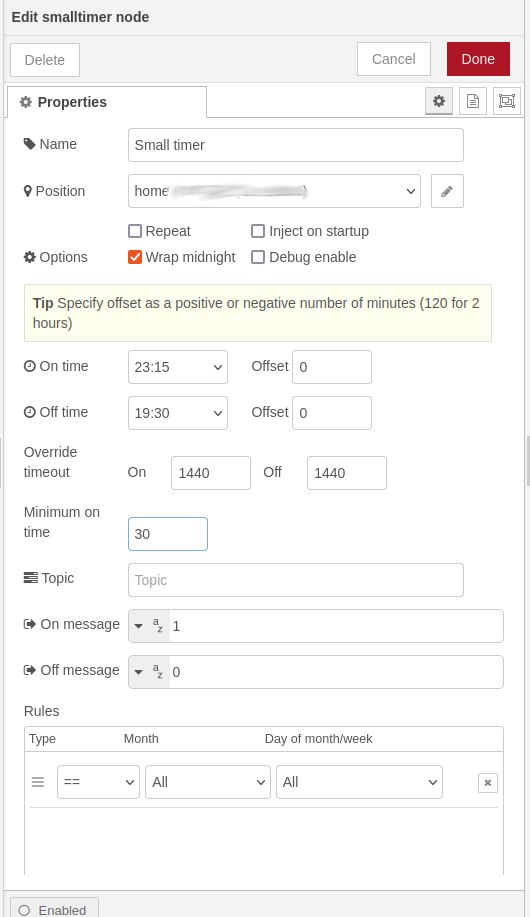
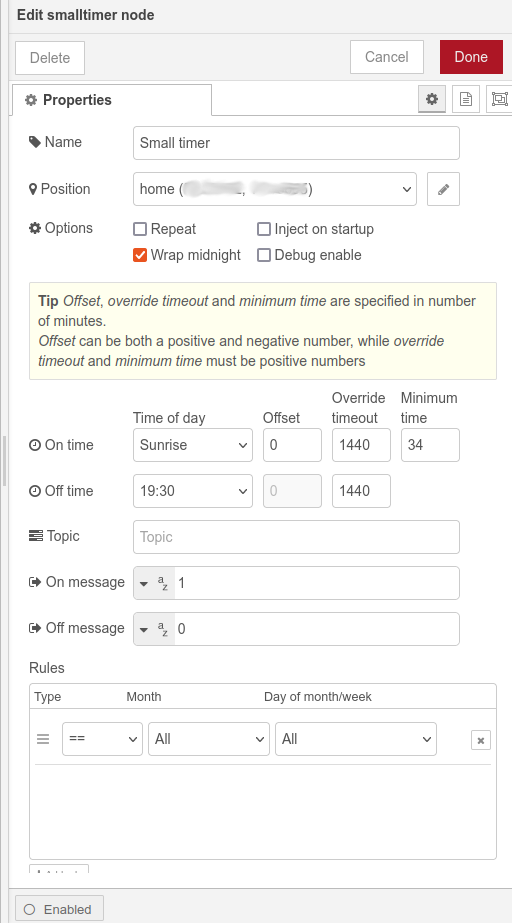
Styling the editor UI

diff --git a/src/nodes/small-timer.html b/src/nodes/small-timer.html
@@ -94,7 +94,7 @@
         <input type="text" id="node-input-position" placeholder="Position">
     </div>
     <div class="form-row">
-        <label><i class="fa fa-cog"></i> Options</label>
+        <label style="vertical-align: top;"><i class="fa fa-cog"></i> Options</label>
         <div style="display:inline-block;" class="small-timer-options">
             <div>
                 <label><input type="checkbox" id="node-input-repeat"> Repeat</label>
@@ -108,36 +108,43 @@
     </div>
 
     <div class="form-tips">
-        <b>Tip</b> Specify offset as a positive or negative number of minutes (120 for 2 hours)
+        <b>Tip</b> <em>Offset</em>, <em>override timeout</em> and <em>minimum time</em> are specified in number of minutes.<br />
+        <em>Offset</em> can be both a positive and negative number, while <em>override timeout</em> and <em>minimum time</em> must be positive numbers
     </div>
-    <div class="form-row">
-        <label for="node-input-startTime"><i class="fa fa-clock-o"></i> On time</label>
-        <input type="text" id="node-input-startTime" class="hidden">
-        <select style="width:100px" id="node-input-startTime-select">
-        </select>
-        <span for="node-input-startOffset" style="margin-left:20px">Offset</span>
-        <input  style="width:80px" type="text" id="node-input-startOffset" placeholder="0">
-    </div>
-    <div class="form-row">
-        <label  for="node-input-endTime"><i class="fa fa-clock-o"></i> Off time</label>
-        <input type="text" id="node-input-endTime">
-        <select style="width:100px" id="node-input-endTime-select">
-        </select>
-        <span for="node-input-end Offset" style="margin-left:20px">Offset</span>
-        <input  style="width:80px" type="text" id="node-input-endOffset" placeholder="0">
-    </div>
-    <div class="form-row">
-        <label>Override timeout</label>
-        <div style="display:inline-block" class="small-timer-overrides">
-            <label for="node-input-onTimeout"> On</label>
-            <input type="text" id="node-input-onTimeout" placeholder="1440">
-            <label for="node-input-offTimeout"> Off</label>
-            <input type="text" id="node-input-offTimeout" placeholder="1440">
+    <div class="form-row" style="margin-bottom: 0;">
+        <label></label>
+        <div style="display:inline-block;">
+            <div class="small-timer-timers small-timer-timers-header">
+                <div class="small-timer-time-column">Time of day</div>
+                <div>Offset</div>
+                <div>Override timeout</div>
+                <div>Minimum time</div>
+            </div>
         </div>
     </div>
     <div class="form-row">
-        <label for="node-input-minimumOnTime">Minimum on time</label>
-        <input style="width:80px" type="text" id="node-input-minimumOnTime" placeholder="0">
+        <label for="node-input-startTime"><i class="fa fa-clock-o"></i> On time</label>
+        <div style="display:inline-block;">
+            <div class="small-timer-timers">
+                <input type="hidden" id="node-input-startTime" class="hidden">
+                <select id="node-input-startTime-select"></select>
+                <input type="text" id="node-input-startOffset" placeholder="0">
+                <input type="text" id="node-input-onTimeout" placeholder="1440">
+                <input type="text" id="node-input-minimumOnTime" placeholder="0">
+            </div>
+        </div>
+    </div>
+    <div class="form-row">
+        <label  for="node-input-endTime"><i class="fa fa-clock-o"></i> Off time</label>
+        <div style="display:inline-block;">
+            <div class="small-timer-timers">
+                <input type="hidden" id="node-input-endTime" class="hidden">
+                <select id="node-input-endTime-select"></select>
+                <input type="text" id="node-input-endOffset" placeholder="0">
+                <input type="text" id="node-input-offTimeout" placeholder="1440">
+                <div style="width: 59px; flex-shrink: 0;"></div>
+            </div>
+        </div>
     </div>
     <div class="form-row">
         <label for="node-input-name"><i class="fa fa-tasks"></i> Topic</label>
@@ -163,15 +170,30 @@
     <input id="node-input-outputs" type="hidden" value="1">
 </script>
 <style>
-    .small-timer-overrides label {
-        width: 40px !important;
+    .small-timer-timers {
+        display: flex;
+        flex-direction: row;
+        justify-content: space-around;
+        width: 327px;
+        gap: 10px;
+    }
+    .small-timer-timers-header {
+        align-items: flex-end;
+    }
+    .small-timer-timers-header div:not(:first-of-type) {
+        width: 100%;
     }
 
-    .small-timer-overrides input {
-        width: 80px !important;
-        margin-right: 8px;
+    .small-timer-time-column {
+        width: 120px;
+        flex-shrink: 0;
     }
-
+    .small-timer-timers input {
+        width: 100% !important;
+    }
+    .small-timer-timers select {
+        width: 120px !important;
+    }
     .small-timer-options label {
         -webkit-user-select: none;
         -khtml-user-select: none;
@@ -240,6 +262,15 @@
             var month = monthDay?.find(".monthSelect").val();
             var day = monthDay?.find(".daySelect").val();
             return { type, month, day };
+        }
+
+        function offsetEnable(value, field) {
+            if(Number(value) < 2000 || Number(value) >= 10000) {
+                $(field).prop('disabled', true);
+                $(field).val(0)
+            } else {
+                $(field).prop('disabled', false);
+            }
         }
 
         function rulesContainer() {
@@ -321,6 +352,11 @@
             });
 
         }
+        
+        function validatePositiveNumber(n) {
+            var num = Number(n || 0)
+            return !isNaN(num) && num >= 0
+        }
 
         RED.nodes.registerType('smalltimer', {
             category: 'advanced-input',
@@ -332,19 +368,19 @@
                 position: { value: "", type: "position" },
                 startTime: { value: 5001, required: true },
                 endTime: { value: 1425, required: true },
-                startOffset: { value: 0, required: true },
-                endOffset: { value: 0, required: true },
+                startOffset: { value: 0, required: true, validate: (v) => !isNaN(v || 0) },
+                endOffset: { value: 0, required: true, validate: (v) => !isNaN(v || 0) },
 
                 topic: { value: '' },
 
                 onMsg: { value: '1' },
                 onMsgType: { value: 'str' },
-                onTimeout: { value: 1440, required: true },
-                minimumOnTime: { value: 0, required: true},
+                onTimeout: { value: 1440, required: true, validate: validatePositiveNumber },
+                minimumOnTime: { value: 0, required: true, validate: validatePositiveNumber},
 
                 offMsg: { value: '0' },
                 offMsgType: { value: 'str' },
-                offTimeout: { value: 1440, required: true },
+                offTimeout: { value: 1440, required: true, validate: validatePositiveNumber},
 
                 rules: { value: [{ type: 'include', month: 0, day: 0 }] },
 
@@ -388,6 +424,17 @@
 
                 generateTimes('#node-input-startTime', false)
                 generateTimes('#node-input-endTime', true)
+
+                offsetEnable($('#node-input-startTime').val(), '#node-input-startOffset')
+                offsetEnable($('#node-input-endTime').val(), '#node-input-endOffset')
+                
+                $('#node-input-startTime-select').on('change', function () {
+                    offsetEnable(this.value, '#node-input-startOffset')
+                })
+
+                $('#node-input-endTime-select').on('change', function () {
+                    offsetEnable(this.value, '#node-input-endOffset')
+                })
 
                 rulesContainer()
                 

diff --git a/README.md b/README.md
@@ -33,13 +33,19 @@ The **repeat** and **inject on startup** checkboxes configures the node to eithe
 
 **Debug enable** this will add an extra output to the node providing debug information, like the different sunrise/sunset etc. times (see [debug section below](#debug))
 
-## On / Off time
-This is when the magic happens. Set it to the desired on time and off time using the dropdowns. You can also set an offset (positive or negative), which will add (or subtract) the specified number of minutes to the calculated time, so you can set the light to turn on 30 minutes _after_ sunset, as an example
+## On and Off time
+Configure the on and off events
 
-## Override timeout
+### Time of day
+Set this propperty to the desired on / off time for the day. Can be a specific time, or use a dynamic time such as _sunrise_, _sunset_ etc.
+
+### Offset
+In case of using a dynamic time, this can be used to add an offset to the calculated time. Use it for example to turn the light on 30 minutes before sunrise.
+
+### Override timeout
 Used when triggering an override of the current state, after set time the node will switch back to whatever the output state should be at the given time, if it was in auto mode. This value is split into an on and off timeout. This means that you could have an 5 minutes on timeout (for turning on lights momentarily) while keeping off at default timeout which is 24 hours (or until next state change)
 
-## Minimum on time
+### Minimum time
 This can be used to set an minimum required on time, if the calculated ontime is below this value it is ignored. For example you might not be interested to turn on the light for only 5 minutes, when you are using sunset to turn on lights in the evening. Then you can set this property to the minimum required on time
 
 ## Topic
